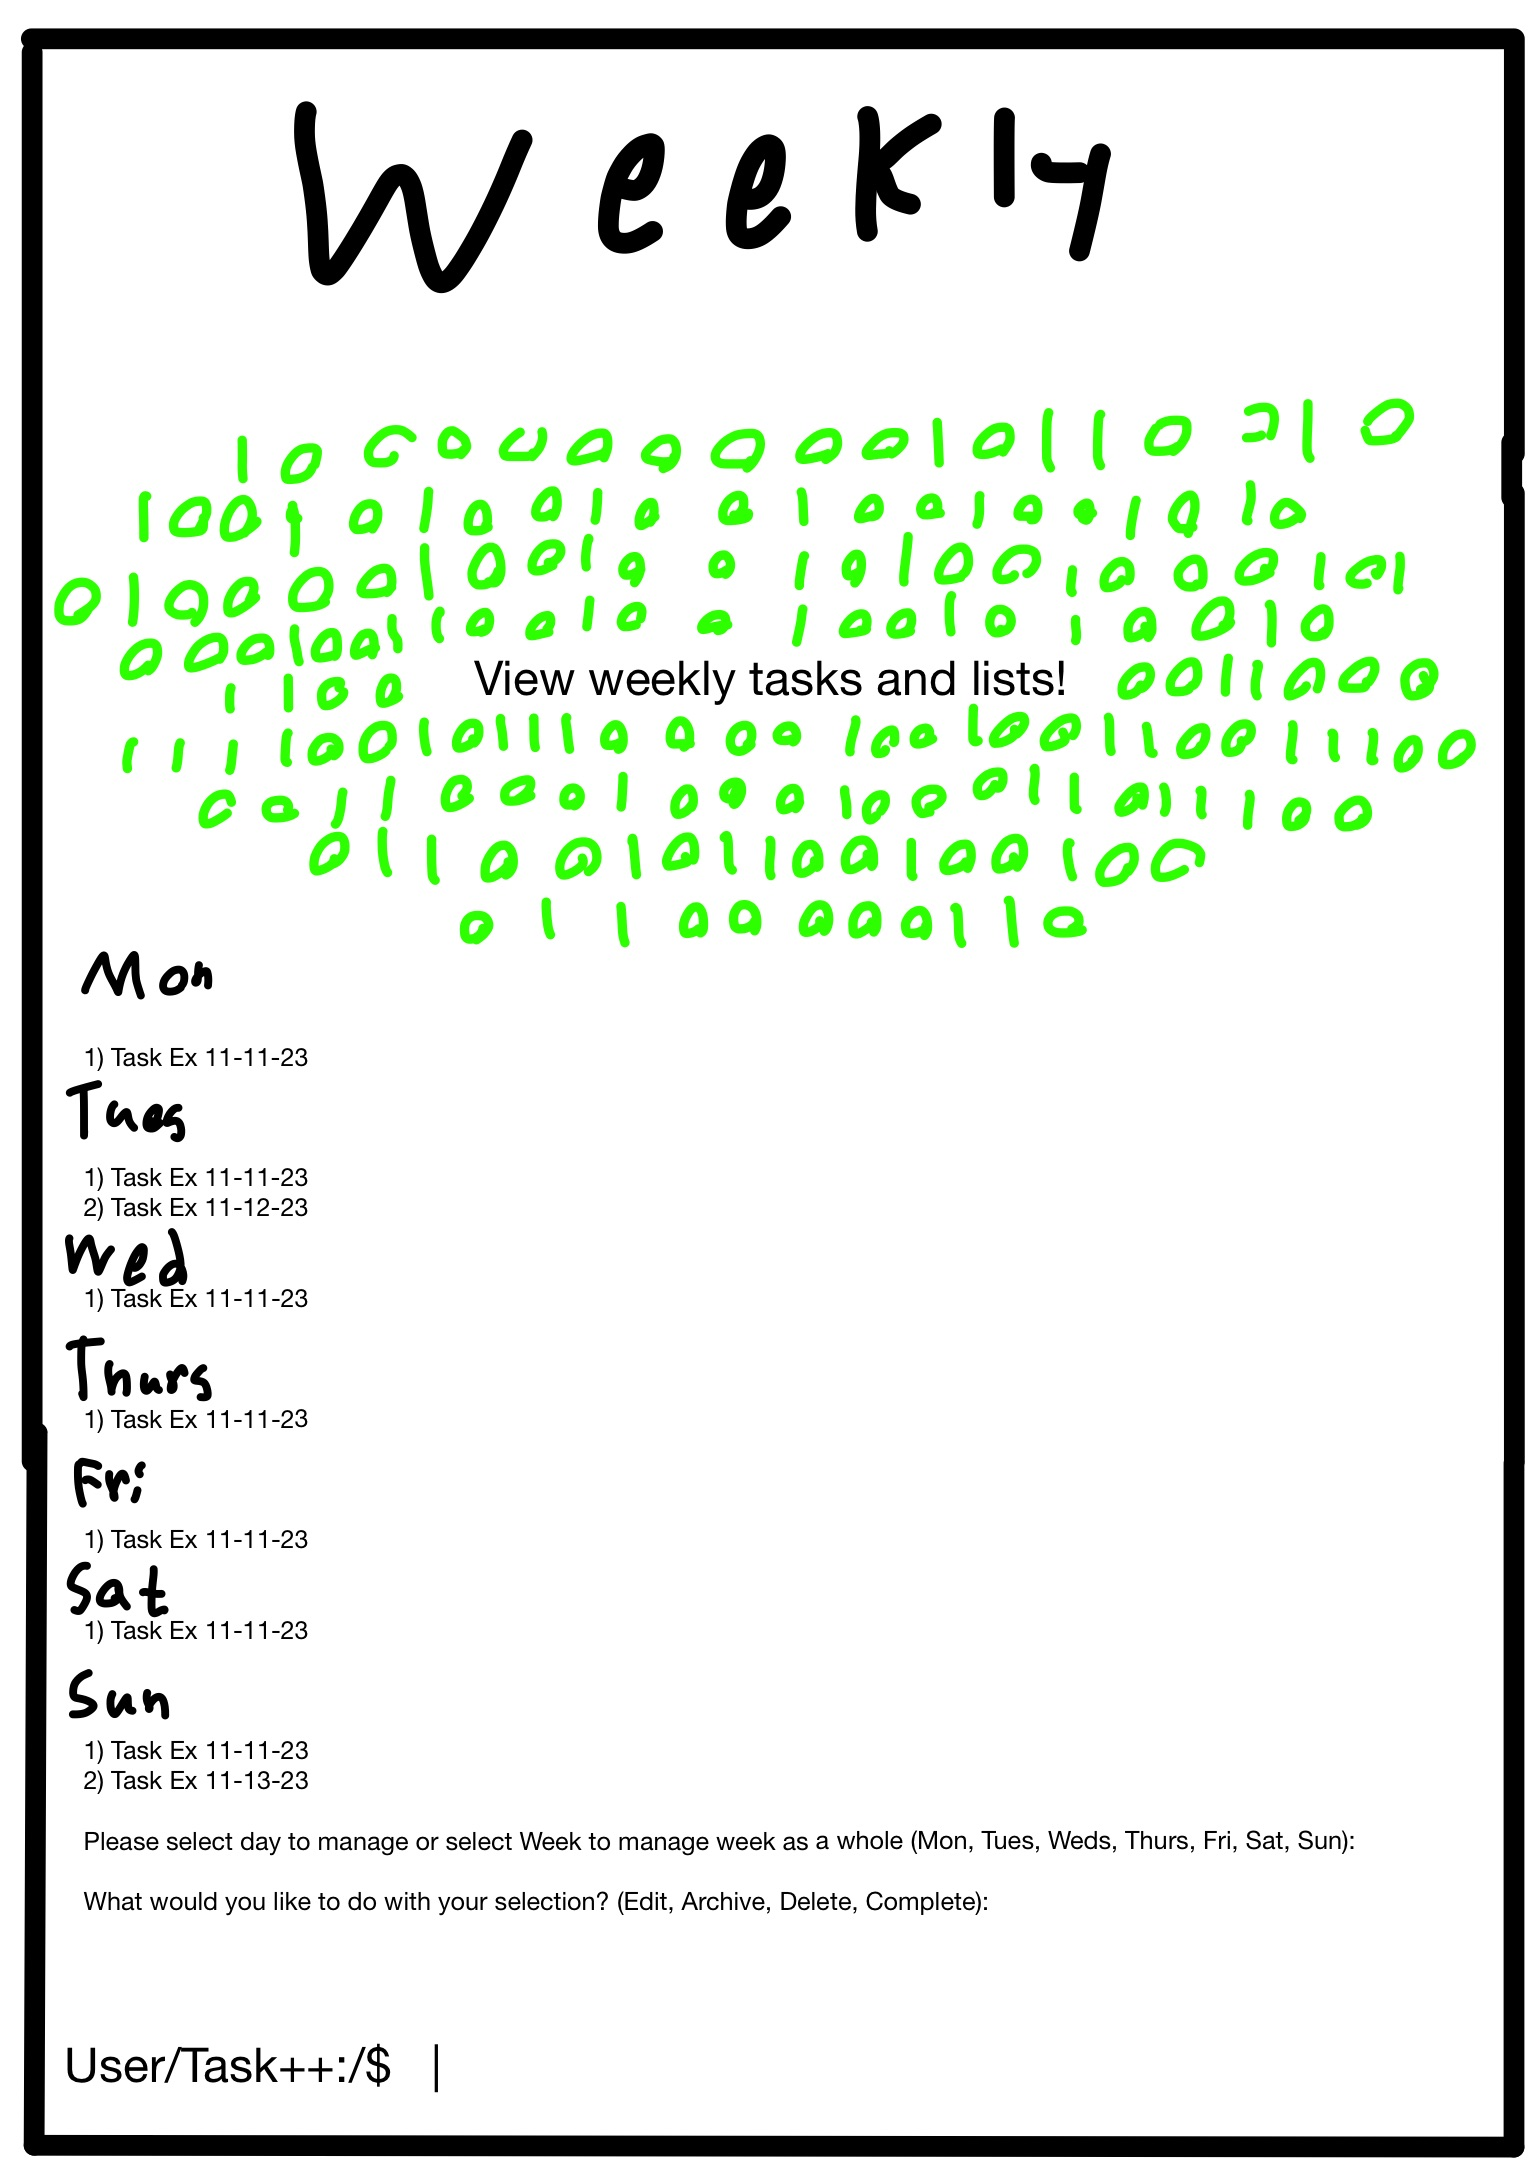
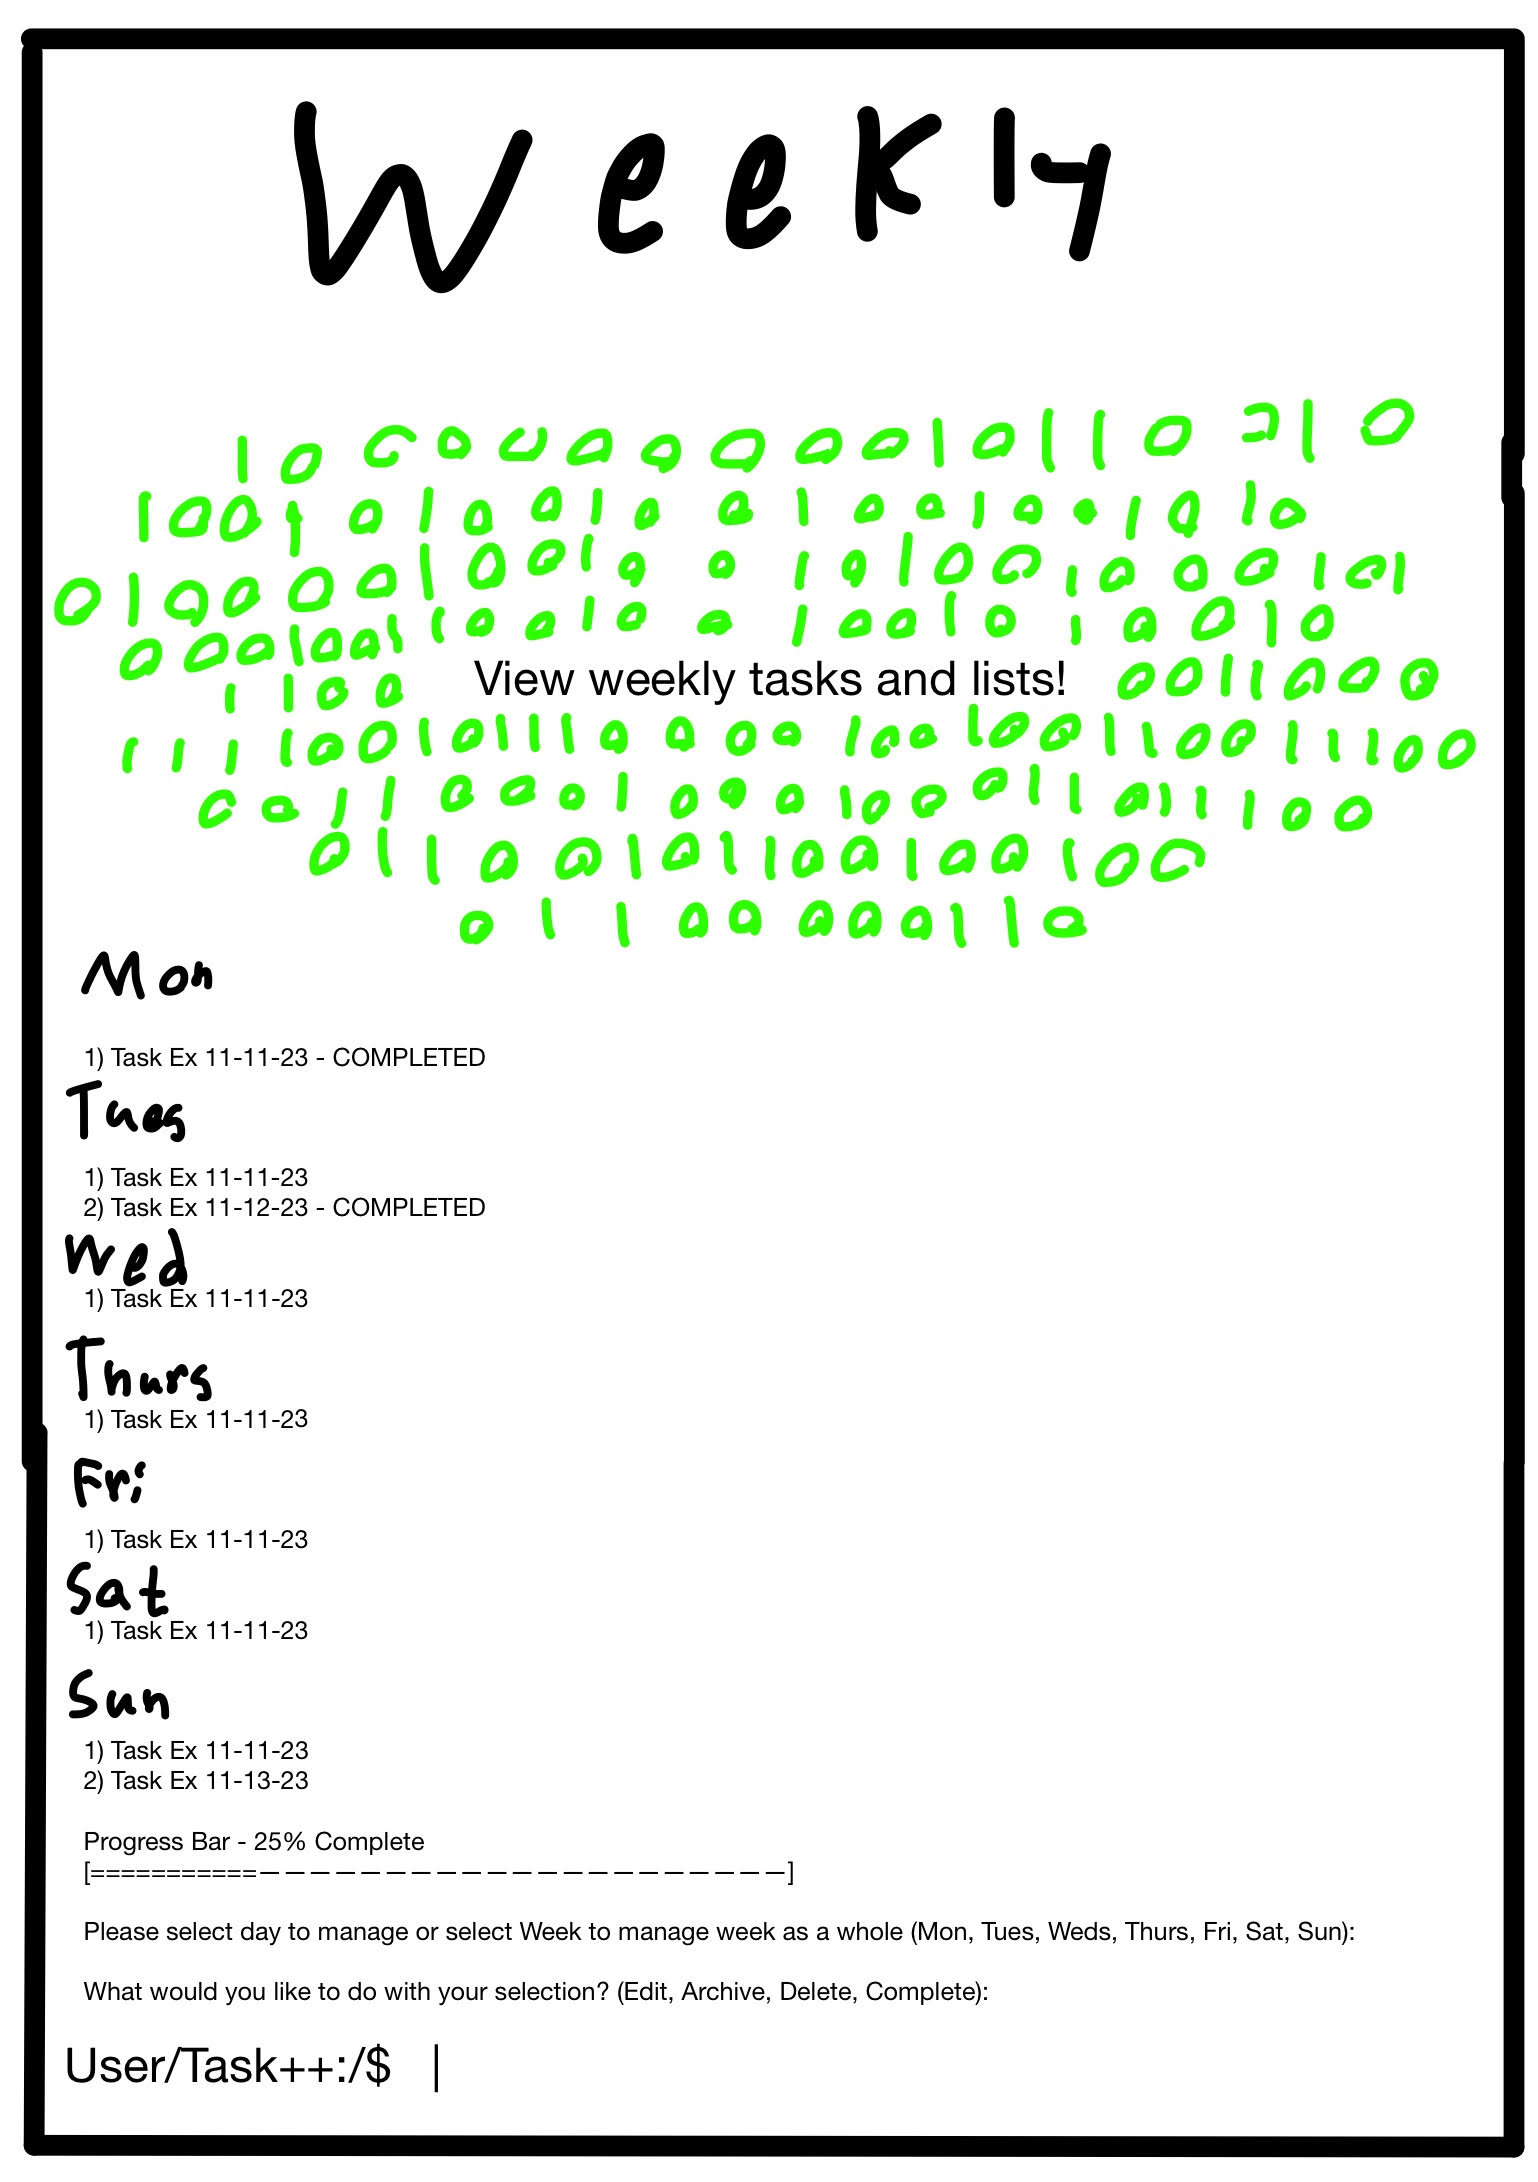
Updating README and adding images and their descriptions.

diff --git a/README.md b/README.md
@@ -28,7 +28,6 @@ Authors:
     * Tasks for the weeks
     * Overall undated tasks
     * Archived tasks and lists
-    * Optional: If the user decides to add priorities and scheduling options
 * Input:
     * Tasks:
         * Task’s name, priority
@@ -51,7 +50,6 @@ Authors:
         * Changing the list’s name
         * Changing Priority
         * Deleting lists
-        * Duplicating lists
         * Noting the completion of lists
         * Undoing action
         * Choosing to have the application suggest a weekly schedule
@@ -61,7 +59,7 @@ Authors:
         * Retrieve lists from archive
 
 **What are the features that the project provides?**
-* Users can create tasks with a title, description, classification, priority, duration, and due date
+* Users can create tasks with a title, description, classification, priority, and due date
 * Tasks lists can be made that will contain multiple tasks within it
 * Each task will have the option to contain subtasks
 * Users will be able to manage all of their tasks and tasks lists with displaying, creation, deletion, and editing
@@ -69,31 +67,44 @@ Authors:
 * You will be able to sort lists based on their classification
 * The application will also suggest a weekly schedule based on priority and due date
 * Users will be able to assign tasks to the day to make weekly sets of tasks as well as
-* store the tasks in an overall undated category rather than the weekly set
+store the tasks in an overall undated category rather than the weekly set
 * Users will have the option to change an undated overall task and assign a date/edit priority
 * Download a task document on their machine
-* will have the option to archive the lists or tasks instead of deleting them if they want to reuse them (example: a long list of tasks that you will have to reuse you can archive to keep your overall tasks and weekly tasks clean)
+* Users will have the option to archive the lists or tasks instead of deleting them if they want to reuse them (example: a long list of tasks that you will have to reuse you can archive to keep your overall tasks and weekly tasks clean)
 * Users will have the option to take tasks and lists out of the archive 
 
- > ## Phase II
- > In addition to completing the "User Interface Specification" and "Class Diagram" sections below, you will need to:
- > * Create an "Epic" (note) for each feature. Place these epics in the `Product Backlog` column
- > * Complete your first *sprint planning* meeting to plan out the next 7 days of work.
- >   * Break down the "Epics" into smaller actionable user stories (i.e. smaller development tasks). Convert them into issues and assign them to team members. Place these in the `TODO` (aka Sprint Backlog) column.
- >   * These cards should represent roughly 7 days worth of development time for your team. Then, once the sprint is over you should be repeating these steps to plan a new sprint, taking you until your second scrum meeting with the reader in phase III.
- > * Schedule two check-ins using Calendly. You need to pick both time slots on Tuesday of week 6. The check-ins will occur on Zoom. Your entire team must be present for both check-ins.
- >   * The first check-in needs to be scheduled with your lab TA. During that meeting, you will discuss your project design/class diagram from phase II.
- >   * The second check-in should be scheduled with a reader. During that meeting you will discuss:
- >     * The tasks you are planning for the first sprint
- >     * How work will be divided between the team members
+## Phase II
+
 ## User Interface Specification
- > Include a navigation diagram for your screens and the layout of each of those screens as desribed below. For all the layouts/diagrams, you can use any tool such as PowerPoint or a drawing program. (Specification requirement is adapted from [this template](https://redirect.cs.umbc.edu/~mgrass2/cmsc345/Template_UI.doc))
 
 ### Navigation Diagram
-> Draw a diagram illustrating how the user can navigate from one screen to another. Here is an [example](https://creately.com/diagram/example/ikfqudv82/user-navigation-diagram-classic?r=v). It can be useful to label each symbol that represents a screen so that you can reference the screens in the next section or the rest of the document if necessary. Give a brief description of what the diagram represents.
+![Navigation Diagram](https://github.com/cs100/final-project-btran159-nsnod001-rgujr001-surib013/blob/master/images/Navigation.jpg)\
+Once you boot the program, you will be taken to the home screen and will have multiple options of where to pivot to. You will be able to create a new task list, a new task, and will have multiple viewing options of the task archive, the overall undated tasks, and your weekly set of tasks. Within the new task screen, you will be able to create new tasks, confirm creation, and undo any errors you may have made. The new task list will have the same features but will be a list containing multiple other tasks. From the different viewing screens, you will be able to download the set of tasks for each viewing screen, edit the tasks and lists, or delete them. From the overall updated viewing screen, you will be able to create a recommended list of tasks for your week. You will be able to archive any tasks or task lists from within the viewing screens. All screens have the option to return home.
 
 ### Screen Layouts
-> Include the layout of each of your screens. The layout should describe the screen’s major components such as menus and prompts for user inputs, expected output, and buttons (if applicable). Explain what is on the layout, and the purpose of each menu item, button, etc. If many screens share the same layout, start by describing the general layout and then list the screens that will be using that layout and the differences between each of them.
+![Home Screen](https://github.com/cs100/final-project-btran159-nsnod001-rgujr001-surib013/blob/master/images/Home_Screen.jpg)\
+The home screen prompts the user to enter their preferred action. Options include creating a new task, creating a new list, viewing the archive, checking weekly tasks, examining upcoming tasks, and selecting the weekly schedule recommender. The user can type their choice, and the program will parse it to determine the next course of action. There's also an exit option for users to leave the program when they're done.
+
+![New Task](https://github.com/cs100/final-project-btran159-nsnod001-rgujr001-surib013/blob/master/images/New_Task.jpg)\
+When creating a new task, users are required to input the task name, task description, priority, due date, assigned date, and whether they want to assign it to an existing list or not. While on this screen, users have the flexibility to edit the task description extensively. They can undo any possible mistakes when given the final option to confirm. After they're satisfied with the changes, users can choose to return to the home screen.
+
+![New List](https://github.com/cs100/final-project-btran159-nsnod001-rgujr001-surib013/blob/master/images/New_List.jpg)\
+Users can specify a list name and provide a description or any relevant information about the list's purpose. After naming the list and providing the description, users are given the option to pivot to the new task screen with the "add task" option.
+
+![Task Editor](https://github.com/cs100/final-project-btran159-nsnod001-rgujr001-surib013/blob/master/images/Task_Editor.jpg)\
+When tasks are selected for editing, users are taken to the edit screen. This edit screen displays all current data of the task, including the title, priority, due date, assigned date, description, and whether it has an assigned list or not. Users have the option to continue editing aspects of the task or confirm their changes.
+
+![List Editor](https://github.com/cs100/final-project-btran159-nsnod001-rgujr001-surib013/blob/master/images/List_Editor.jpg)\
+When lists are selected for editing, users are taken to the list editor screen. The edit screen displays all the data of the current list, including the title and the description. Users are given the option to continue editing aspects of the list or confirm their changes.
+
+![Weekly View](https://github.com/cs100/final-project-btran159-nsnod001-rgujr001-surib013/blob/master/images/Weekly.jpg)\
+Users are presented with a calendar of the current week when viewing weekly tasks, with each task displayed alongside its due date. Users can manage the entire week or select individual days of the week. Actions include editing, archiving, deleting, or marking tasks as complete for the week or specific days. Users can also edit individual tasks on specific days. Users can also view the progress bar for the percentage of tasks they have completed for the week.
+
+![Upcoming View](https://github.com/cs100/final-project-btran159-nsnod001-rgujr001-surib013/blob/master/images/Upcoming.jpg)\
+Users get to see an overall list of undated tasks as well as their weekly tasks assigned to days beyond the current week. Users can edit, delete, archive, or mark tasks and lists as complete. They can also manage tasks within the selected lists.
+
+![Archive View](https://github.com/cs100/final-project-btran159-nsnod001-rgujr001-surib013/blob/master/images/Archive.jpg)\
+Users can view all archived lists and tasks and choose between the two options. They can enter a number corresponding to the task or list in the selected category. Users can also see the automated completed task list, which stores all completed tasks and lists. Options include editing, deleting, uploading, or marking as complete. Uploading allows users to move archived weeks into a new week for easier week creation.
 
 ## Class Diagram
  > Include a **class diagram(s)** for your project and a **description** of the diagram(s). Your class diagram(s) should include all the main classes you plan for the project. This should be in sufficient detail that another group could pick up the project this point and successfully complete it. Use proper UML notation (as discussed in the course slides).
